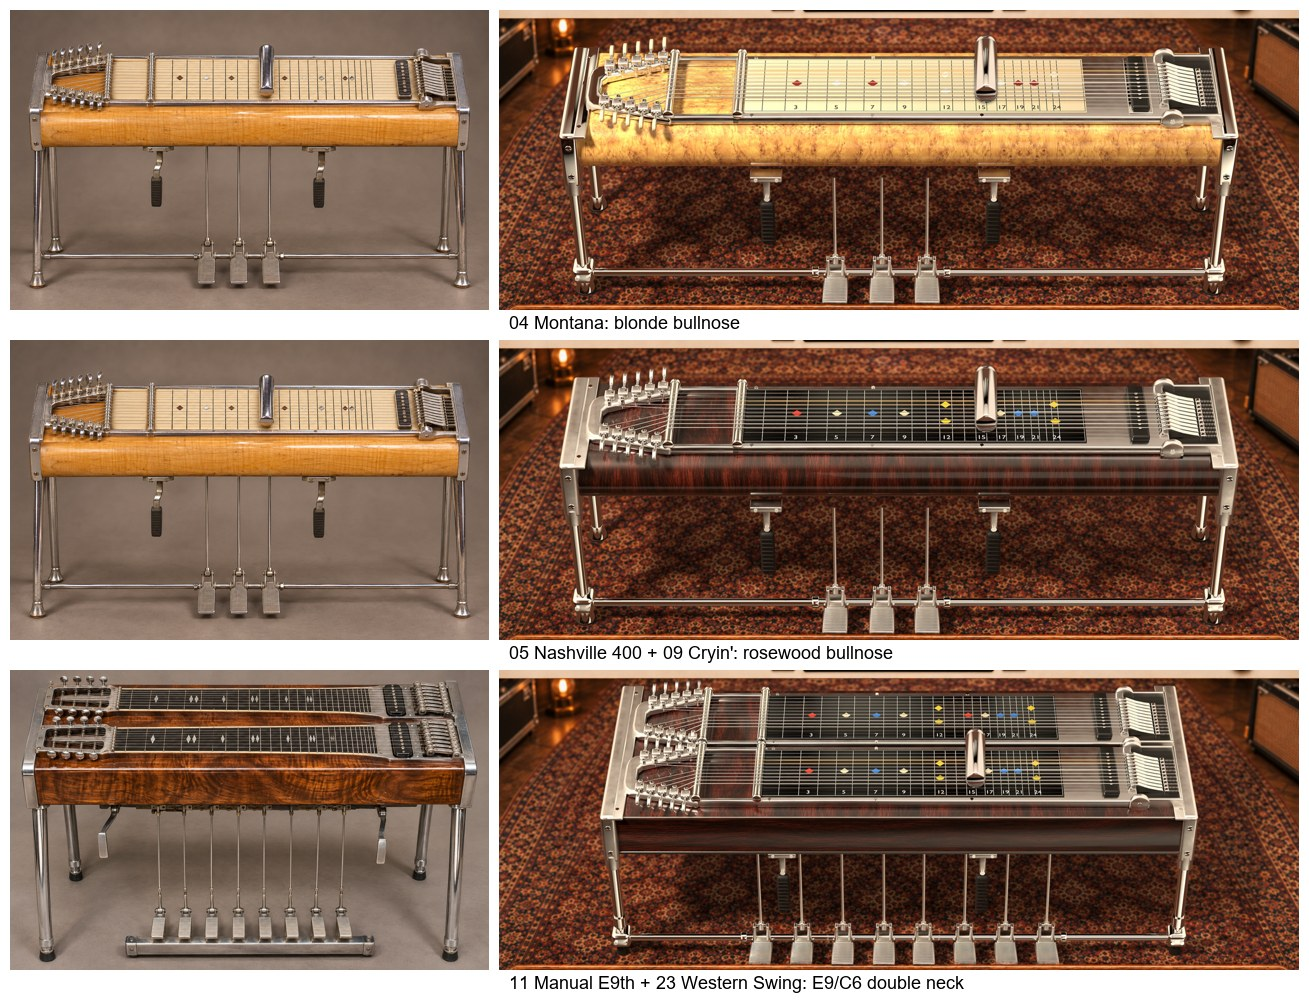
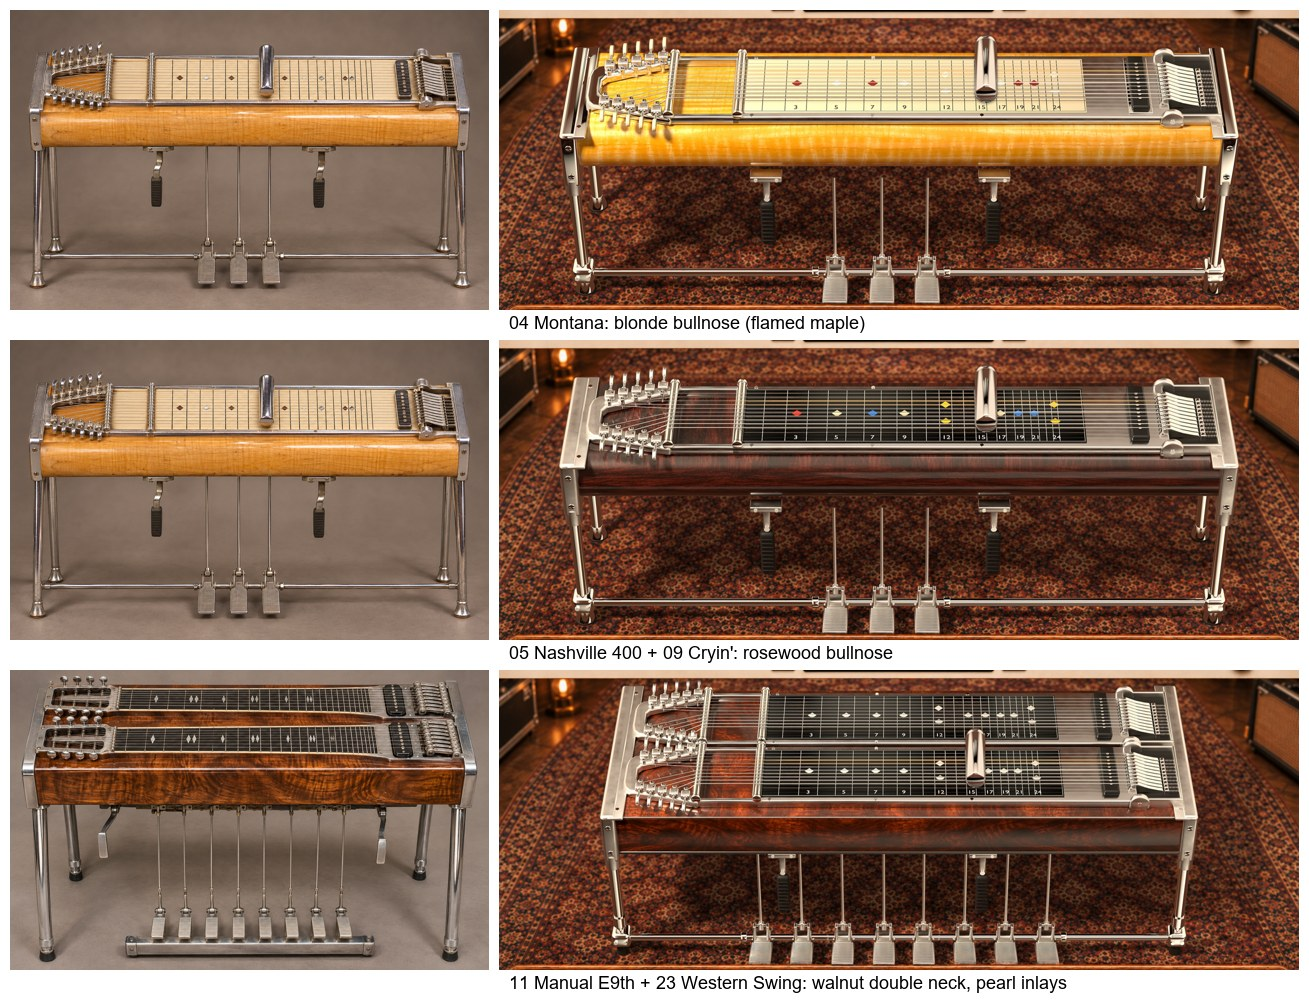
Shapes refined toward the concepts: bullnose veneer grain runs along the cabinet (was vertical on the nose), blonde maple colour matched by measurement, double neck in figured walnut with pearl diamond inlays

diff --git a/design/ui_v2/blender/steel_3d.py b/design/ui_v2/blender/steel_3d.py
@@ -199,8 +199,10 @@ KOA_TEX = os.path.join(WOOD_DIR, "koa_1_1.png")           # real figured koa (th
 MAPLE_TEX = os.path.join(WOOD_DIR, "maple_1_1.png")       # approved ref p3d_maple_1: honey birdseye/burl maple
 if SHAPE == "bullnose":   # the 60s blonde (round29 s3_1) is flamed maple, not burl
     MAPLE_TEX = os.path.join(WOOD_DIR, "flamemaple_1_1.png")
-    for _k, _v in dict(MAPLE_SAT=0.95, MAPLE_VAL=1.0, MAPLE_HUE=0.5, MAPLE_SCALE=1.0).items(): os.environ.setdefault(_k, str(_v))
-M_WOOD = (photo_wood(WOOD_TEX) if FINISH == "rosewood" and os.path.exists(WOOD_TEX) else
+    for _k, _v in dict(MAPLE_SAT=1.18, MAPLE_VAL=0.90, MAPLE_HUE=0.5, MAPLE_SCALE=1.0).items(): os.environ.setdefault(_k, str(_v))
+WALNUT_TEX = os.path.join(WOOD_DIR, "walnut_1_1.png")     # figured walnut of the double-neck concept (round29 s6_3)
+M_WOOD = (photo_wood(WALNUT_TEX, E("WALNUT_SAT", 1.0), E("WALNUT_VAL", 0.80), 0.5, E("WALNUT_SCALE", 1.0)) if SHAPE == "double" and os.path.exists(WALNUT_TEX) else
+          photo_wood(WOOD_TEX) if FINISH == "rosewood" and os.path.exists(WOOD_TEX) else
           photo_wood(KOA_TEX, E("KOA_SAT", 1.12), E("KOA_VAL", 0.93), E("KOA_HUE", 0.515), E("KOA_SCALE", 1.8)) if FINISH == "koa" and os.path.exists(KOA_TEX) else
           photo_wood(PEARL_TEX, E("PEARL_SAT", 0.42), E("PEARL_VAL", 1.08), E("PEARL_HUE", 0.512), E("PEARL_SCALE", 2.2)) if FINISH == "pearloid" and os.path.exists(PEARL_TEX) else
           photo_wood(MAPLE_TEX, E("MAPLE_SAT", 0.86), E("MAPLE_VAL", 1.17), E("MAPLE_HUE", 0.532), E("MAPLE_SCALE", 1.3)) if FINISH == "maple" and os.path.exists(MAPLE_TEX) else
@@ -377,6 +379,11 @@ if SHAPE == "bullnose":   # half-round front apron, flat top behind it (the fron
     BN_R = APRON / 2
     cab = box("Cabinet", (0, (YF + BN_R + YB) / 2, -APRON / 2), (BODY_L, YB - YF - BN_R, APRON), M_WOOD, bevel=0.003)
     cyl("CabinetNose", (0, YF + BN_R, -APRON / 2), BN_R, BODY_L, M_WOOD, "X", 96)
+    # the veneer is projected in object space: bake rotation and position into both parts, so the grain runs along the
+    # cabinet on the round nose too (it ran up and down) and carries on across the seam
+    for _o in (cab, bpy.context.object):
+        bpy.ops.object.select_all(action="DESELECT"); _o.select_set(True); bpy.context.view_layer.objects.active = _o
+        bpy.ops.object.transform_apply(location=True, rotation=True, scale=True)
 else:
     cab = box("Cabinet", (0, YC, -APRON / 2), (BODY_L, DEPTH, APRON), uv_mat(CAB_TEX) if USE_UV else M_WOOD, bevel=E("CAB_BEVEL", 0.003), seg=int(E("CAB_SEG", 3)))
 HL_MASK = os.path.join(os.path.dirname(os.path.abspath(__file__)), "..", "textures", "cabinet", "hl_%s.png" % FINISH)
@@ -452,6 +459,8 @@ if SHAPE == "bullnose" and FINISH == "maple":   # the 60s blonde: cream board, d
     M_FRET = mat("FretLineDark", (0.035, 0.030, 0.028), 0.0, 0.5)
     COL = {"red": (0.32, 0.035, 0.03), "cream": (0.80, 0.82, 0.84), "blue": (0.32, 0.035, 0.03), "yellow": (0.80, 0.82, 0.84)}
     M_MARK = {k: mat("Mark_" + k, v, 0.0, 0.35) for k, v in COL.items()}
+if SHAPE == "double":   # pearl diamonds on both necks, as on the concept
+    M_MARK = {k: mat("Mark_pearl", (0.82, 0.83, 0.84), 0.0, 0.30, coat=0.6) for k in COL}
 FB_W = 0.122
 X_GUIDE = X_NUT - 0.098                                                      # the roller bar where the keyhead ends
 x0n, x1n = X_NUT - 0.009, X_BR + 0.004
